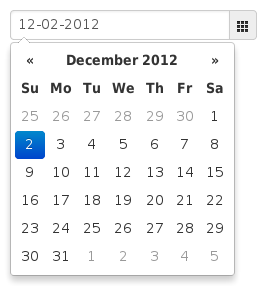
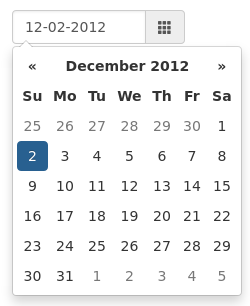
Update Bootstrap version on screenshots. Update phantomjs package

diff --git a/docs/_screenshots/option_language.html b/docs/_screenshots/option_language.html
@@ -2,6 +2,11 @@
 <html>
     <head>
         <link rel="stylesheet" href="script/common.css">
+        <style>
+            .row + .row {
+              margin-top: 30px;
+            }
+        </style>
         <script src="script/common.js"></script>
         <script src="../../js/locales/bootstrap-datepicker.es.js" charset="UTF-8"></script>
         <script src="../../js/locales/bootstrap-datepicker.fr.js" charset="UTF-8"></script>
@@ -11,21 +16,21 @@
         <script>
             function setup(){
                 $('[data-date]').datepicker({
-                    format: "mm/dd/yyyy" // To override locale-specific formats
+                    format: 'mm/dd/yyyy' // To override locale-specific formats
                 });
-            };
+            }
         </script>
     </head>
-    <body data-capture=".row">
+    <body data-capture=".datepicker">
         <div class="row">
-            <div class="span4" data-date="03/03/2013" data-date-language="en"></div>
-            <div class="span4" data-date="03/03/2013" data-date-start-view="1" data-date-language="es"></div>
-            <div class="span4" data-date="03/03/2013" data-date-language="fr"></div>
+            <div class="col-sm-4" data-date="03/03/2013" data-date-language="en"></div>
+            <div class="col-sm-4" data-date="03/03/2013" data-date-start-view="1" data-date-language="es"></div>
+            <div class="col-sm-4" data-date="03/03/2013" data-date-language="fr"></div>
         </div>
         <div class="row">
-            <div class="span4" data-date="03/03/2013" data-date-start-view="1" data-date-language="zh-TW"></div>
-            <div class="span4" data-date="03/03/2013" data-date-language="ja"></div>
-            <div class="span4" data-date="03/03/2013" data-date-start-view="1" data-date-language="ru"></div>
+            <div class="col-sm-4" data-date="03/03/2013" data-date-start-view="1" data-date-language="zh-TW"></div>
+            <div class="col-sm-4" data-date="03/03/2013" data-date-language="ja"></div>
+            <div class="col-sm-4" data-date="03/03/2013" data-date-start-view="1" data-date-language="ru"></div>
         </div>
     </body>
 </html>

diff --git a/docs/_screenshots/demo_head.html b/docs/_screenshots/demo_head.html
@@ -5,27 +5,32 @@
         <script src="script/common.js"></script>
         <script>
             function setup(){
-                $('.popup > input').datepicker();
-                $('.popup > input').data('datepicker').picker.find('td:nth(15)').trigger('hover');
-                $('.component > div').datepicker({
+                var dp = $('.base').datepicker().data('datepicker');
+
+                dp.focusDate = new Date(Date.UTC(2013, 7, 14));
+                dp.update();
+
+                $('.date').datepicker({
                     format: 'mm-dd-yyyy'
                 });
                 $('.inline').datepicker();
-            };
+            }
         </script>
     </head>
-    <body data-capture=".popup, .component, .inline > div, .datepicker">
-        <div class="row-fluid">
-            <div class="span4 popup">
-                <input type="text" value="08/03/2013" class="form-control">
+    <body data-capture=".base, .date, .datepicker">
+        <div class="row">
+            <div class="col-sm-3">
+                <input type="text" class="form-control base" value="08/03/2013">
             </div>
-            <div class="span4 component">
-                <div class="input-append date">
-                    <input type="text" value="10-05-2003" readonly>
-                    <span class="add-on"><i class="icon-th"></i></span>
+            <div class="col-sm-offset-1 col-sm-3">
+                <div class="input-group date">
+                    <input type="text" class="form-control" value="10-05-2003" readonly>
+                    <div class="input-group-addon">
+                        <span class="glyphicon glyphicon-th"></span>
+                    </div>
                 </div>
             </div>
-            <div class="span4 inline" data-date="01/03/2004"></div>
+            <div class="col-sm-offset-1 col-sm-4 inline" data-date="01/03/2004"></div>
         </div>
     </body>
 </html>

diff --git a/docs/_screenshots/markup_daterange.html b/docs/_screenshots/markup_daterange.html
@@ -8,21 +8,25 @@
                 $('.input-daterange').datepicker({
                     format: 'yyyy-mm-dd'
                 });
-            };
+            }
         </script>
     </head>
     <body data-capture=".input-daterange, .datepicker" data-show="input:first, input:last">
-        <form class="form-horizontal">
-            <div class="input-daterange span5">
-                <input type="text" class="input-small" value="2012-04-05" />
-                <span class="add-on">to</span>
-                <input type="text" class="input-small" value="2012-04-19" />
+        <div class="row">
+            <div class="col-sm-5">
+                <div class="input-group input-daterange">
+                    <input type="text" class="form-control" value="2012-04-05">
+                    <div class="input-group-addon">to</div>
+                    <input type="text" class="form-control" value="2012-04-19">
+                </div>
             </div>
-            <div class="input-daterange span5">
-                <input type="text" class="input-small" value="2012-04-05" />
-                <span class="add-on">to</span>
-                <input type="text" class="input-small" value="2012-04-19" />
+            <div class="col-sm-5">
+                <div class="input-group input-daterange">
+                    <input type="text" class="form-control" value="2012-04-05">
+                    <div class="input-group-addon">to</div>
+                    <input type="text" class="form-control" value="2012-04-19">
+                </div>
             </div>
-        </form>
+        </div>
     </body>
 </html>

diff --git a/docs/_screenshots/option_todayhighlight.html b/docs/_screenshots/option_todayhighlight.html
@@ -22,11 +22,11 @@
                 return function(){
                     Array.prototype.push.call(arguments, date);
                     window.Date = date;
-                    res = f.apply(this, arguments);
+                    f.apply(this, arguments);
                     window.Date = NativeDate;
-                }
+                };
             }
-            var setup = patch_date(function setup(Date){
+            var setup = patch_date(function(Date){
                 Date.now = new Date(2013, 2, 18);
                 $('input').datepicker({
                     todayHighlight: true
@@ -35,11 +35,13 @@
         </script>
     </head>
     <body data-capture="input, .datepicker">
-        <div class="span4">
-            <input type="text" value="03/03/2013">
-        </div>
-        <div class="span4">
-            <input type="text" value="03/18/2013">
+        <div class="row">
+            <div class="col-sm-3">
+                <input type="text" class="form-control" value="03/03/2013">
+            </div>
+            <div class="col-sm-offset-2 col-sm-3">
+                <input type="text" class="form-control" value="03/18/2013">
+            </div>
         </div>
     </body>
 </html>

diff --git a/docs/_screenshots/option_weekstart.html b/docs/_screenshots/option_weekstart.html
@@ -6,18 +6,20 @@
         <script>
             function setup(){
                 $('input').datepicker();
-            };
+            }
         </script>
     </head>
     <body data-capture="input, .datepicker">
-        <div class="span4">
-            <input type="text" value="03/03/2013" data-date-week-start="2">
-        </div>
-        <div class="span4">
-            <input type="text" value="03/03/2013" data-date-week-start="4">
-        </div>
-        <div class="span4">
-            <input type="text" value="03/03/2013" data-date-week-start="6">
+        <div class="row">
+            <div class="col-sm-3">
+                <input type="text" class="form-control" value="03/03/2013" data-date-week-start="2">
+            </div>
+            <div class="col-sm-offset-1 col-sm-3">
+                <input type="text" class="form-control" value="03/03/2013" data-date-week-start="4">
+            </div>
+            <div class="col-sm-offset-1 col-sm-3">
+                <input type="text" class="form-control" value="03/03/2013" data-date-week-start="6">
+            </div>
         </div>
     </body>
 </html>

diff --git a/docs/_screenshots/option_multidate.html b/docs/_screenshots/option_multidate.html
@@ -8,19 +8,19 @@
                 $('input').datepicker({
                     multidate: true
                 });
-            };
+            }
         </script>
     </head>
     <body data-capture="input, .datepicker">
         <div class="row">
-            <div class="span4">
-                <input type="text" value="03/03/2013,03/16/2013">
+            <div class="col-sm-4">
+                <input type="text" class="form-control" value="03/03/2013,03/16/2013">
             </div>
-            <div class="span4">
-                <input type="text" value="03/03/2013,06/16/2013" data-date-start-view="1">
+            <div class="col-sm-4">
+                <input type="text" class="form-control" value="03/03/2013,06/16/2013" data-date-start-view="1">
             </div>
-            <div class="span4">
-                <input type="text" value="03/03/2013,03/16/2014" data-date-start-view="2">
+            <div class="col-sm-4">
+                <input type="text" class="form-control" value="03/03/2013,03/16/2014" data-date-start-view="2">
             </div>
         </div>
     </body>

diff --git a/Gruntfile.js b/Gruntfile.js
@@ -229,7 +229,7 @@ module.exports = function(grunt){
 
     // Docs task.
     grunt.registerTask('screenshots', 'Rebuilds automated docs screenshots', function(){
-        var phantomjs = require('phantomjs').path;
+        var phantomjs = require('phantomjs-prebuilt').path;
 
         grunt.file.recurse('docs/_static/screenshots/', function(abspath){
             grunt.file.delete(abspath);
@@ -240,12 +240,13 @@ module.exports = function(grunt){
                 return;
             subdir = subdir || '';
 
-            var outdir = "docs/_static/screenshots/" + subdir,
+            var outdir = 'docs/_static/screenshots/' + subdir,
                 outfile = outdir + filename.replace(/.html$/, '.png');
 
             if (!grunt.file.exists(outdir))
                 grunt.file.mkdir(outdir);
 
+            // NOTE: For 'zh-TW' and 'ja' locales install adobe-source-han-sans-jp-fonts (Arch Linux)
             grunt.util.spawn({
                 cmd: phantomjs,
                 args: ['docs/_screenshots/script/screenshot.js', abspath, outfile]

diff --git a/docs/_screenshots/markup_component.html b/docs/_screenshots/markup_component.html
@@ -5,16 +5,22 @@
         <script src="script/common.js"></script>
         <script>
             function setup(){
-                $('input').datepicker({
+                $('.date').datepicker({
                     format: 'mm-dd-yyyy'
                 });
-            };
+            }
         </script>
     </head>
-    <body data-capture=".date, .datepicker">
-        <div class="input-append date">
-            <input type="text" value="12-02-2012">
-            <span class="add-on"><i class="icon-th"></i></span>
+    <body data-capture=".input-group, .datepicker">
+        <div class="row">
+            <div class="col-sm-offset-4 col-sm-3">
+                <div class="input-group date">
+                    <input type="text" class="form-control" value="12-02-2012">
+                    <div class="input-group-addon">
+                        <span class="glyphicon glyphicon-th"></span>
+                    </div>
+                </div>
+            </div>
         </div>
     </body>
 </html>

diff --git a/docs/_screenshots/option_calendarweeks.html b/docs/_screenshots/option_calendarweeks.html
@@ -9,17 +9,17 @@
                     format: 'mm-dd-yyyy',
                     calendarWeeks: true
                 });
-            };
+            }
         </script>
     </head>
     <body data-capture="input, .datepicker">
-    <div class="row-fluid">
-        <div class="span6">
-            <input type="text" value="01-16-2012">
+        <div class="row">
+            <div class="col-sm-3">
+                <input type="text" class="form-control" value="01-16-2012">
+            </div>
+            <div class="col-sm-offset-2 col-sm-3">
+                <input type="text" class="form-control" value="12-16-2012">
+            </div>
         </div>
-        <div class="span6">
-            <input type="text" value="12-16-2012">
-        </div>
-    </div>
     </body>
 </html>

diff --git a/docs/_screenshots/option_daysofweekdisabled.html b/docs/_screenshots/option_daysofweekdisabled.html
@@ -9,10 +9,14 @@
                     format: 'mm-dd-yyyy',
                     daysOfWeekDisabled: [0, 6]
                 });
-            };
+            }
         </script>
     </head>
     <body data-capture="input, .datepicker">
-        <input type="text" value="03-05-2013">
+        <div class="row">
+            <div class="col-sm-offset-4 col-sm-3">
+                <input type="text" class="form-control" value="03-05-2013">
+            </div>
+        </div>
     </body>
 </html>

diff --git a/docs/_screenshots/option_startdate.html b/docs/_screenshots/option_startdate.html
@@ -9,10 +9,14 @@
                     format: 'mm-dd-yyyy',
                     startDate: '03-14-2013'
                 });
-            };
+            }
         </script>
     </head>
     <body data-capture="input, .datepicker">
-        <input type="text" value="03-18-2013">
+        <div class="row">
+            <div class="col-sm-offset-4 col-sm-3">
+                <input type="text" class="form-control" value="03-18-2013">
+            </div>
+        </div>
     </body>
 </html>

diff --git a/docs/_screenshots/option_enddate.html b/docs/_screenshots/option_enddate.html
@@ -9,10 +9,14 @@
                     format: 'mm-dd-yyyy',
                     endDate: '03-14-2013'
                 });
-            };
+            }
         </script>
     </head>
     <body data-capture="input, .datepicker">
-        <input type="text" value="03-03-2013">
+        <div class="row">
+            <div class="col-sm-offset-4 col-sm-3">
+                <input type="text" class="form-control" value="03-03-2013">
+            </div>
+        </div>
     </body>
 </html>
